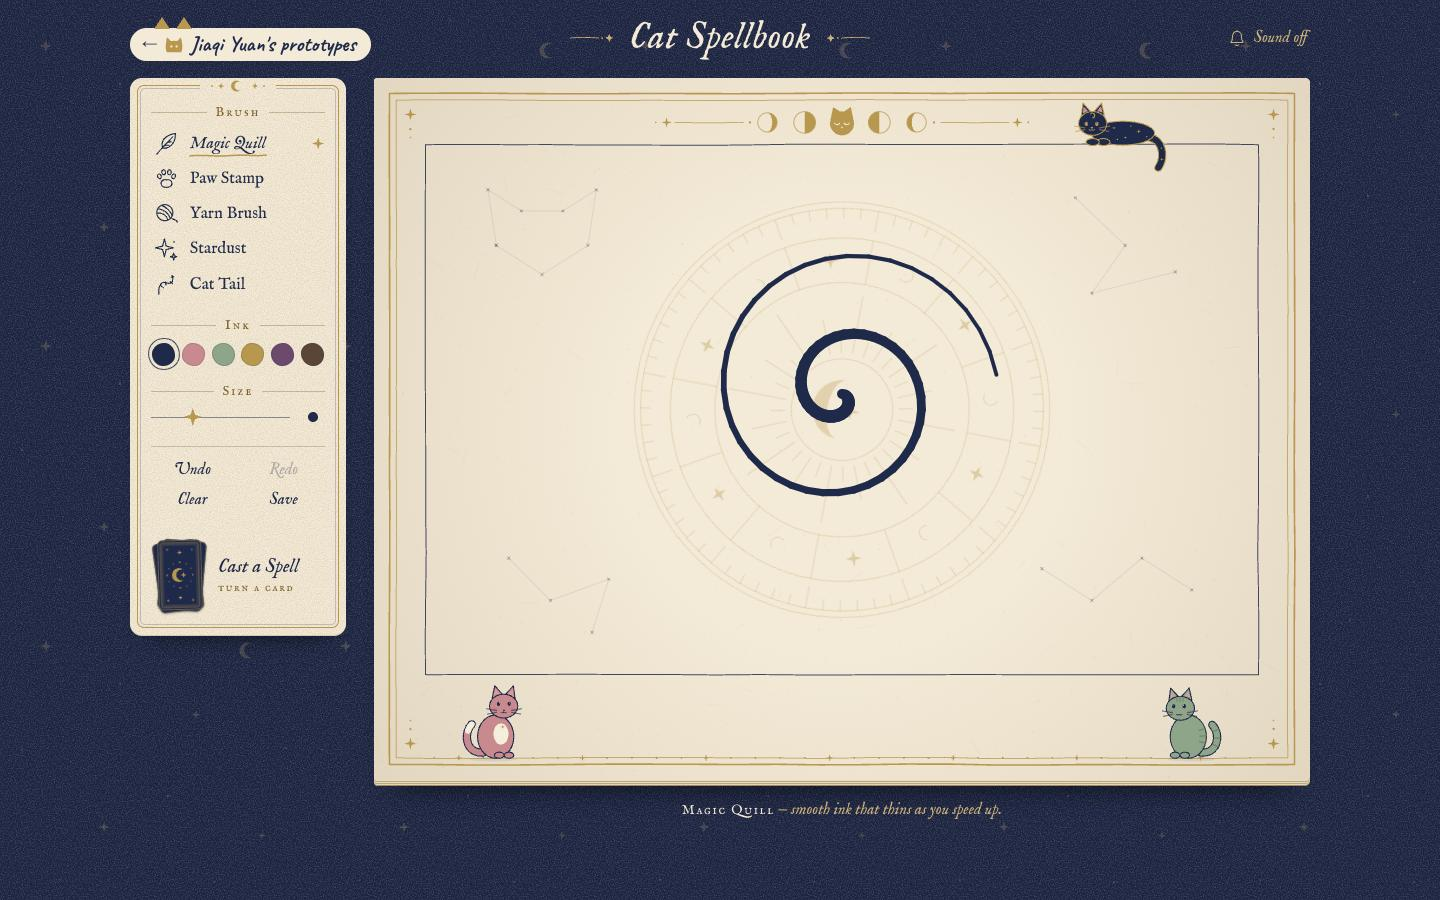
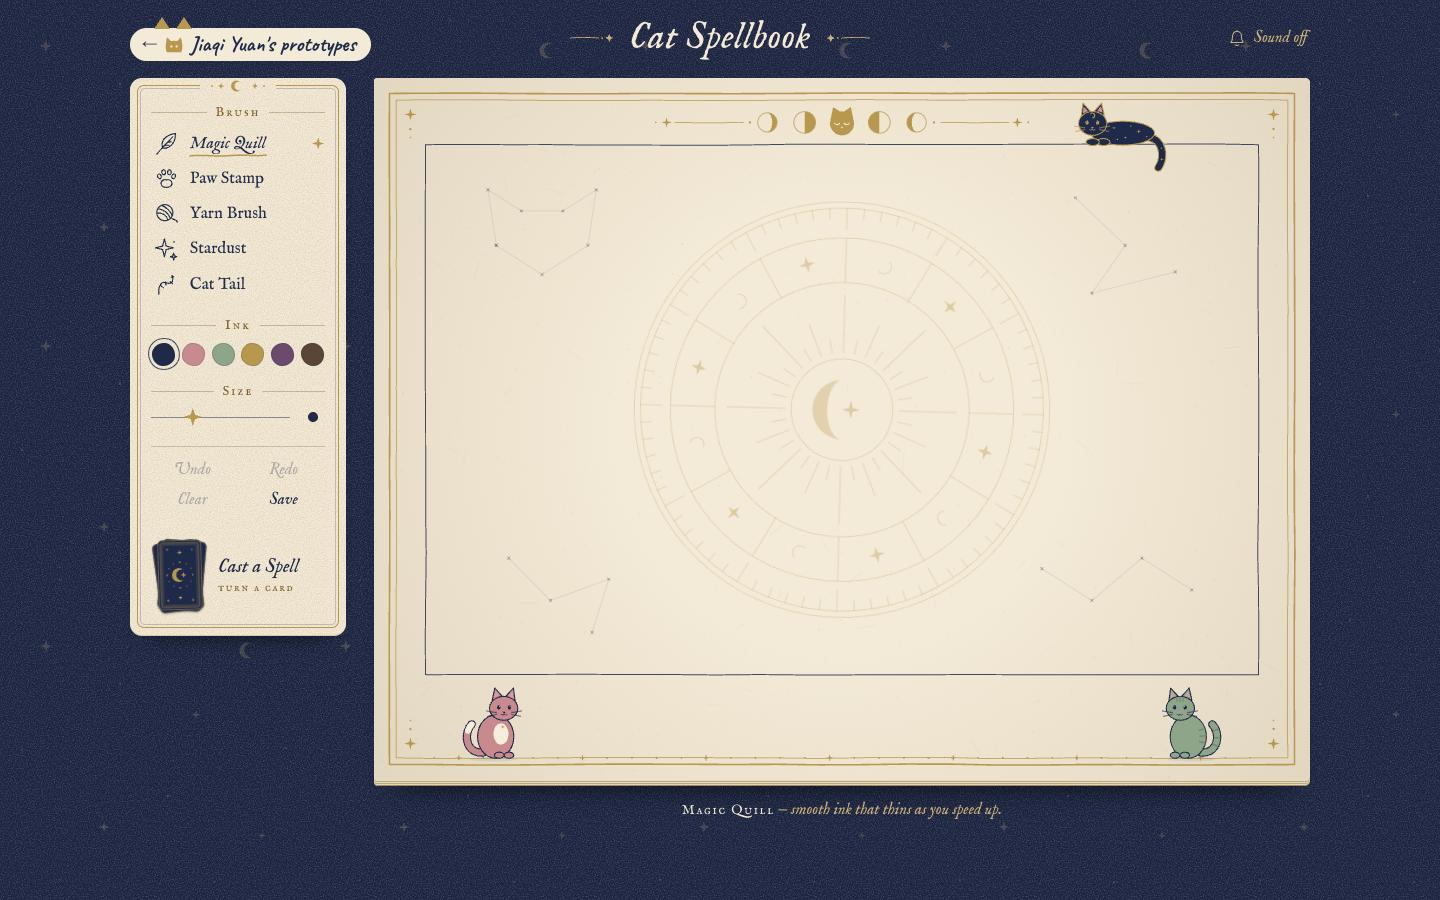
Add Jiaqi's Weather Cat, refresh previews, simplify gallery hover and filter focus
Recapture Jiaqi's site, Weather Cat, and Cat Spellbook previews. Remove the
"Open project" hover overlay and the dropdown's focused background/underline.

diff --git a/src/styles.css b/src/styles.css
@@ -450,10 +450,8 @@ footer p {
   cursor: pointer;
 }
 
-.week-control select:focus-visible {
+.week-control select:focus {
   outline: none;
-  border-bottom-color: var(--ink);
-  background-color: color-mix(in srgb, var(--ink) 8%, var(--paper));
 }
 
 .gallery-heading {
@@ -521,23 +519,6 @@ footer p {
 
 .has-missing-preview .preview-fallback {
   display: grid;
-}
-
-.project-open {
-  position: absolute;
-  right: 0;
-  bottom: 0;
-  padding: 0.65rem 0.85rem;
-  color: var(--paper);
-  background: var(--ink);
-  font-size: var(--text-small);
-  opacity: 0;
-  transition: opacity 160ms ease-out;
-}
-
-.project-link:hover .project-open,
-.project-link:focus-visible .project-open {
-  opacity: 1;
 }
 
 .project-link:hover img {
@@ -626,8 +607,7 @@ footer p {
 }
 
 @media (prefers-reduced-motion: reduce) {
-  .project-image img,
-  .project-open {
+  .project-image img {
     transition: none;
   }
 

diff --git a/src/gallery.js b/src/gallery.js
@@ -67,7 +67,6 @@ export function initGallery(students) {
             <div class="project-image">
               <span class="preview-fallback">Preview unavailable<span>Open project ↗</span></span>
               <img src="${escapeHtml(project.preview)}" alt="" width="1440" height="900" loading="${index < 3 ? "eager" : "lazy"}" decoding="async" />
-              <span class="project-open" aria-hidden="true">Open project ↗</span>
             </div>
             <div class="project-caption">
               <span class="project-student">${escapeHtml(student.name)}</span>

diff --git a/src/projects.js b/src/projects.js
@@ -107,6 +107,7 @@ const weatherProjects = [
   ["Ethan Wise","Local Weather","/prototypes/local-weather"],
   ["Heran Cui (Bruce)","Weather Station","/prototypes/weather-station"],
   ["Hoi Kin Chan (Matthew)","NYC Weather","/prototypes/weather"],
+  ["Jiaqi Yuan","Weather Cat","/prototypes/weather-cat"],
   ["Jochi Yu","weather weather","/prototypes/weather-weather"],
   ["Letian Tian","Weather Station","/prototypes/weather-station"],
   ["Michelle Wong","Weather Station","/prototypes/weather-display"],

diff --git a/docs/weather-review-2026-10-09.md b/docs/weather-review-2026-10-09.md
@@ -18,6 +18,8 @@ October 9 additional instructor links: added Mingtai’s The Weather Daily, Step
 
 Siyue follow-up: Elizabeth supplied the direct Weather Station link. It returned HTTP 200 and rendered conditions and forecasts in demo mode. Added it with a captured preview, bringing the collection to **24 projects from 24 students**.
 
+October 10 Jiaqi follow-up: Elizabeth supplied the direct Weather Cat link. It returned HTTP 200 and rendered a world map of city pins, city search, and °C/°F controls. Searching New York displayed a missing OpenWeatherMap API key notice, so the preview shows the landing view. The collection now has **25 projects from 25 students**.
+
 | Student | Project | Observed content |
 | --- | --- | --- |
 | Siyue Zhong | [Weather Station](https://prototyping-for-masters-c12t.vercel.app/prototypes/weather-station) | Explicit demo mode; city conditions, hourly/five-day forecasts, packing recommendations, and historical comparisons. |
@@ -29,6 +31,7 @@ Siyue follow-up: Elizabeth supplied the direct Weather Station link. It returned
 | Ethan Wise | [Local Weather](https://prototyping-for-masters-8v9j.vercel.app/prototypes/local-weather) | City/ZIP search, location selection, units, and weather/forecast interface. |
 | Heran Cui (Bruce) | [Weather Station](https://prototyping-for-masters-one.vercel.app/prototypes/weather-station) | Atmospheric simulation, clothing/commute advice, telemetry, and hourly forecast. Rendered in demo mode with a missing API key notice. |
 | Hoi Kin Chan (Matthew) | [NYC Weather](https://matthews-site.vercel.app/prototypes/weather) | NYC weather and five-day forecast; discovered in the desktop’s Prototypes Explorer. |
+| Jiaqi Yuan | [Weather Cat](https://prototyping-for-masters-1-eyt7.vercel.app/prototypes/weather-cat) | World map with city pins, city search, and unit controls; searching New York displayed a missing OpenWeatherMap API key notice. |
 | Jochi Yu | [weather weather](https://jochiprototypes.vercel.app/prototypes/weather-weather) | Current city conditions, hourly forecast, and five-day forecast. |
 | Letian Tian | [Weather Station](https://prototyping-for-masters-nine.vercel.app/prototypes/weather-station) | Multi-city conditions with temperature, humidity, wind, pressure, unit controls, GPS, and a key control. |
 | Michelle Wong | [Weather Station](https://prototyping-for-masters-wine.vercel.app/prototypes/weather-display) | City conditions, atmospheric time-of-day controls, and five-day forecast. |
@@ -47,9 +50,8 @@ Siyue follow-up: Elizabeth supplied the direct Weather Station link. It returned
 
 ## No weather app found on the published site
 
-These 5 homepages were inspected, including their published prototype lists. No weather app was linked in the reviewed navigation. This does not establish that the student has not made one elsewhere. Letian, Mingtai, Stephen, Xuanyi, Ziqing, and Siyue were removed after the instructor supplied their direct project links.
+These 4 homepages were inspected, including their published prototype lists. No weather app was linked in the reviewed navigation. This does not establish that the student has not made one elsewhere. Letian, Mingtai, Stephen, Xuanyi, Ziqing, Siyue, and Jiaqi were removed after the instructor supplied their direct project links.
 
-- [Jiaqi Yuan](https://prototyping-for-masters-1-eyt7.vercel.app/)
 - [Ruyi Wang](https://ruyiwang.vercel.app/)
 - [Shuotong Huang (Tiffany)](https://shuotong-huang-portfolio.vercel.app/)
 - [Tinglan Huang (Alanis)](https://alanis1-omega.vercel.app/)

diff --git a/README.md b/README.md
@@ -15,9 +15,9 @@ The homepage opens in **Student sites**, showing the full roster. Choose **Proje
 - `/#student-sites` — student directory (default)
 - `/?view=projects#student-sites` — all projects
 
-The collection contains **31 Typography**, **21 projects in the PixiJS group**, **26 Doodle**, **24 Weather apps**, and **4 API explorations** projects. Classification is based on the rendered project and its main interaction; portfolio titles and route names can be stale. PixiJS projects are checked for actual renderer usage, not just a library name in a prefetched homepage, with instructor-directed additions noted in [the curation review](docs/project-curation.md).
+The collection contains **31 Typography**, **21 projects in the PixiJS group**, **26 Doodle**, **25 Weather apps**, and **4 API explorations** projects. Classification is based on the rendered project and its main interaction; portfolio titles and route names can be stale. PixiJS projects are checked for actual renderer usage, not just a library name in a prefetched homepage, with instructor-directed additions noted in [the curation review](docs/project-curation.md).
 
-The [Week 5 review](docs/weather-review-2026-10-09.md) records all 29 published sites, the 24 weather apps included, and API/demo limitations.
+The [Week 5 review](docs/weather-review-2026-10-09.md) records all 29 published sites, the 25 weather apps included, and API/demo limitations.
 
 The [API explorations review](docs/api-review-2026-10-09.md) records the full-roster review, four non-weather API projects, and their live/demo behavior.
 

diff --git a/docs/project-curation.md b/docs/project-curation.md
@@ -16,7 +16,7 @@ Siyue follow-up: Elizabeth supplied Jelly Creatures for PixiJS and Weather Stati
 
 Zhongyunqi follow-up: Elizabeth supplied Typography and Draw to Feed a Creature. Both direct pages returned HTTP 200. Typography renders individually arranged letters and an embedded 3D scene; included in Week 3 as assigned by the instructor. Draw to Feed a Creature provides a drawing canvas, brush widths, changing palettes, and stroke-based creature growth. Added both with captured previews.
 
-Current totals: **31 Typography projects from 27 students**, **21 PixiJS projects from 17 students**, **26 Doodle projects from 24 students**, and **24 Weather apps from 24 students**. These corrections supersede the earlier counts and exclusions below.
+Current totals: **31 Typography projects from 27 students**, **21 PixiJS projects from 17 students**, **26 Doodle projects from 24 students**, and **25 Weather apps from 25 students**. These corrections supersede the earlier counts and exclusions below.
 
 October 9 API explorations review: checked all 29 published student sites and 37 additional project/case-study pages. Added four non-weather API projects from Carnycia, Kate, Sasha, and Sean to Week 5 — API explorations. See [the full roster review and API evidence](api-review-2026-10-09.md).
 
